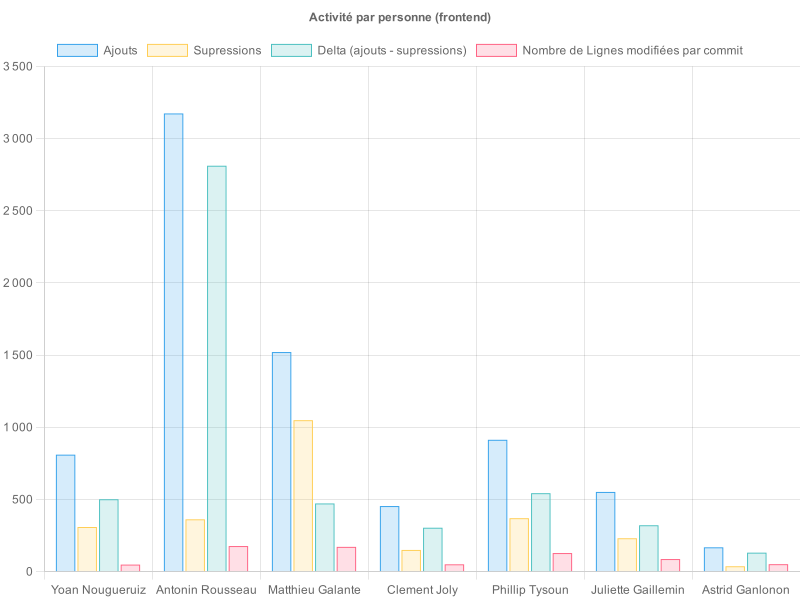
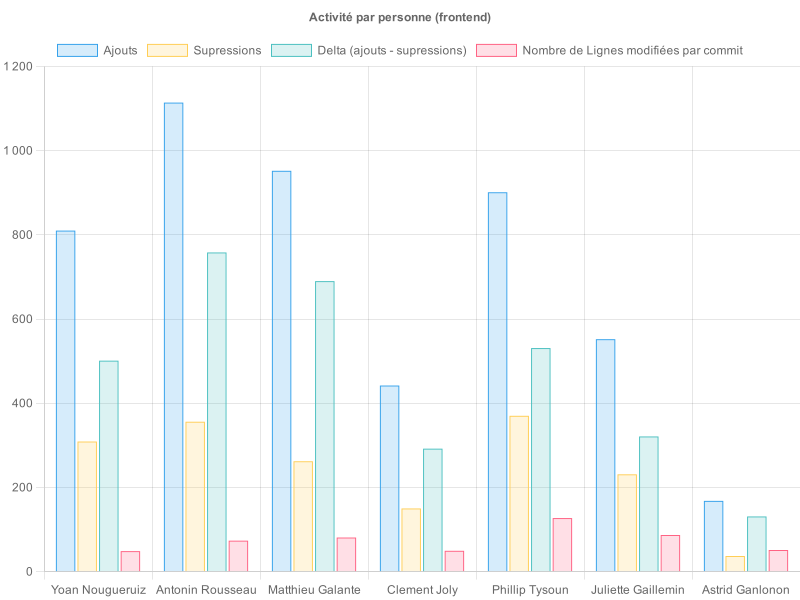
stat sans les modifs de fichier bete

diff --git a/stats/index.js b/stats/index.js
@@ -69,9 +69,16 @@ for await (const commit of commits) {
   })
   // console.log(info.data.files);
   // sum all files additions
-  const additions = info.data.files.reduce((acc, file) => acc + file.additions, 0);
-  // sum all files deletions
-  const deletions = info.data.files.reduce((acc, file) => acc + file.deletions, 0);
+  // const additions = info.data.files.reduce((acc, file) => acc + file.additions, 0);
+  // // sum all files deletions
+  // const deletions = info.data.files.reduce((acc, file) => acc + file.deletions, 0);
+
+  // calcul les additions en evitant les packages.json et package-lock.json
+  const additions = info.data.files.filter((file) => !file.filename.includes('package')).reduce((acc, file) => acc + file.additions, 0);
+  // calcul les deletions en evitant les packages.json et package-lock.json
+  const deletions = info.data.files.filter((file) => !file.filename.includes('package')).reduce((acc, file) => acc + file.deletions, 0);
+
+
   // console.log(name, additions, deletions);
   if (activity.has(name)) {
     // activity.set(name,activity.get(name)+1);
